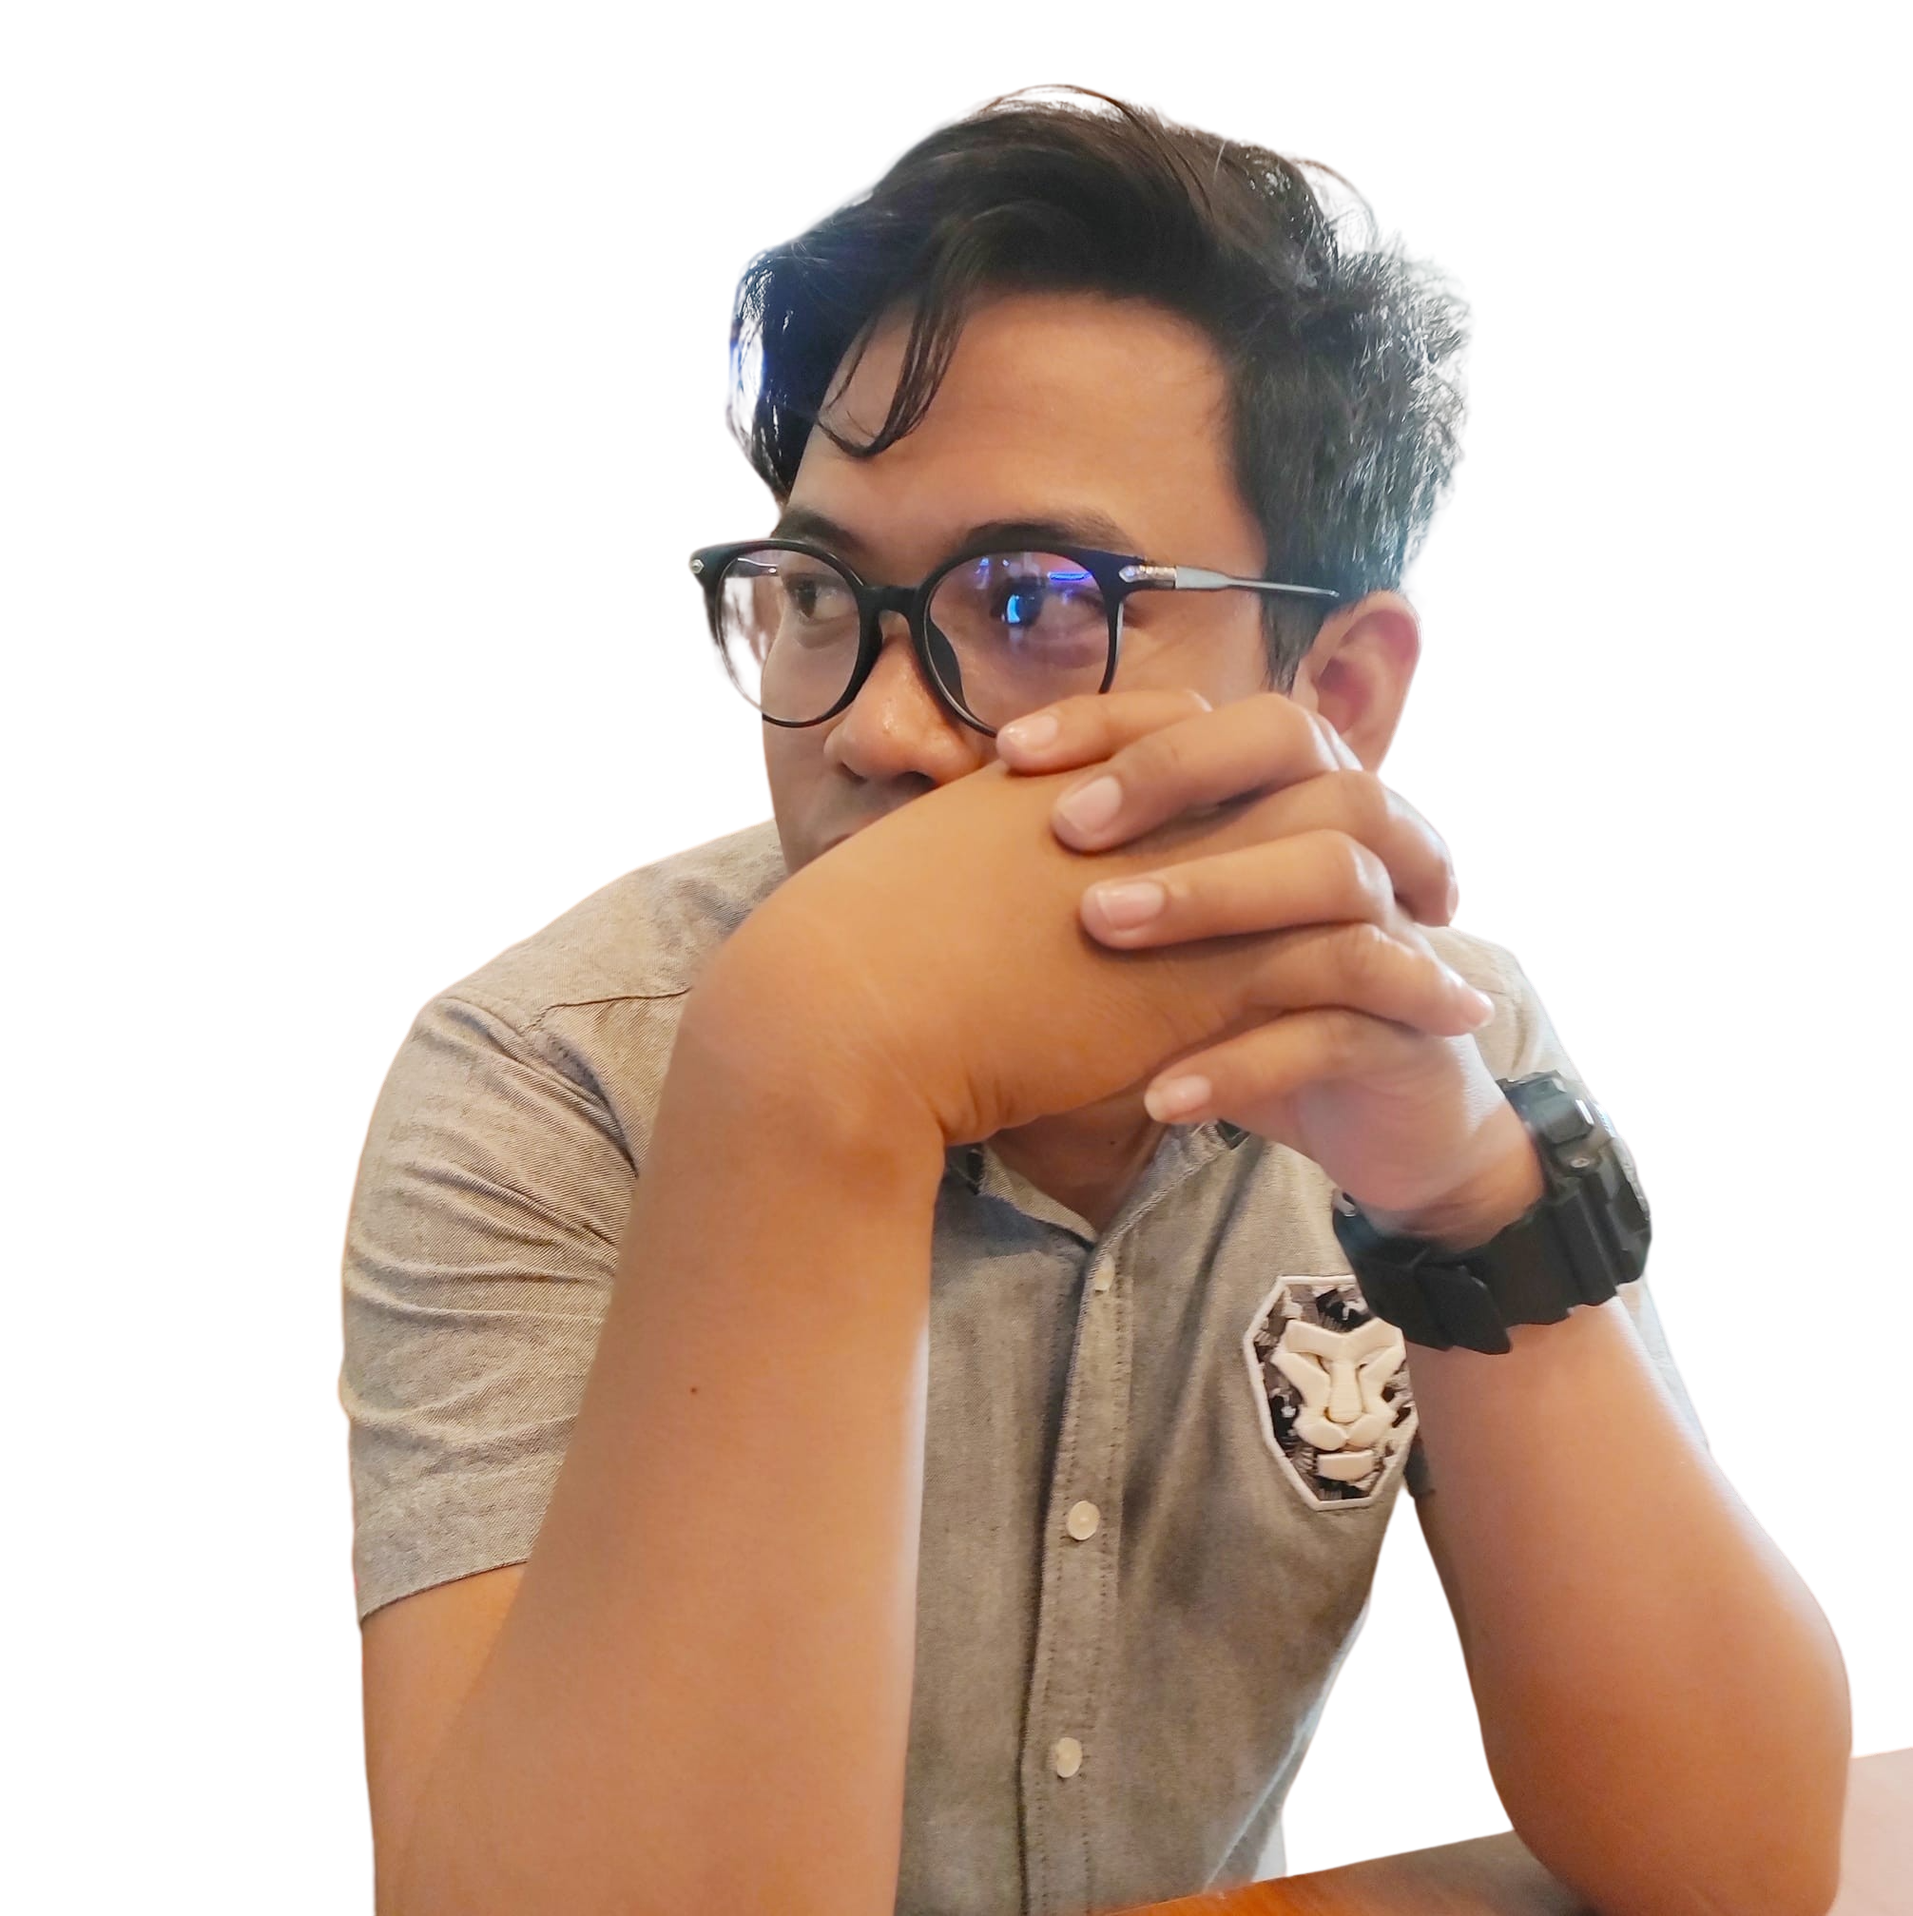
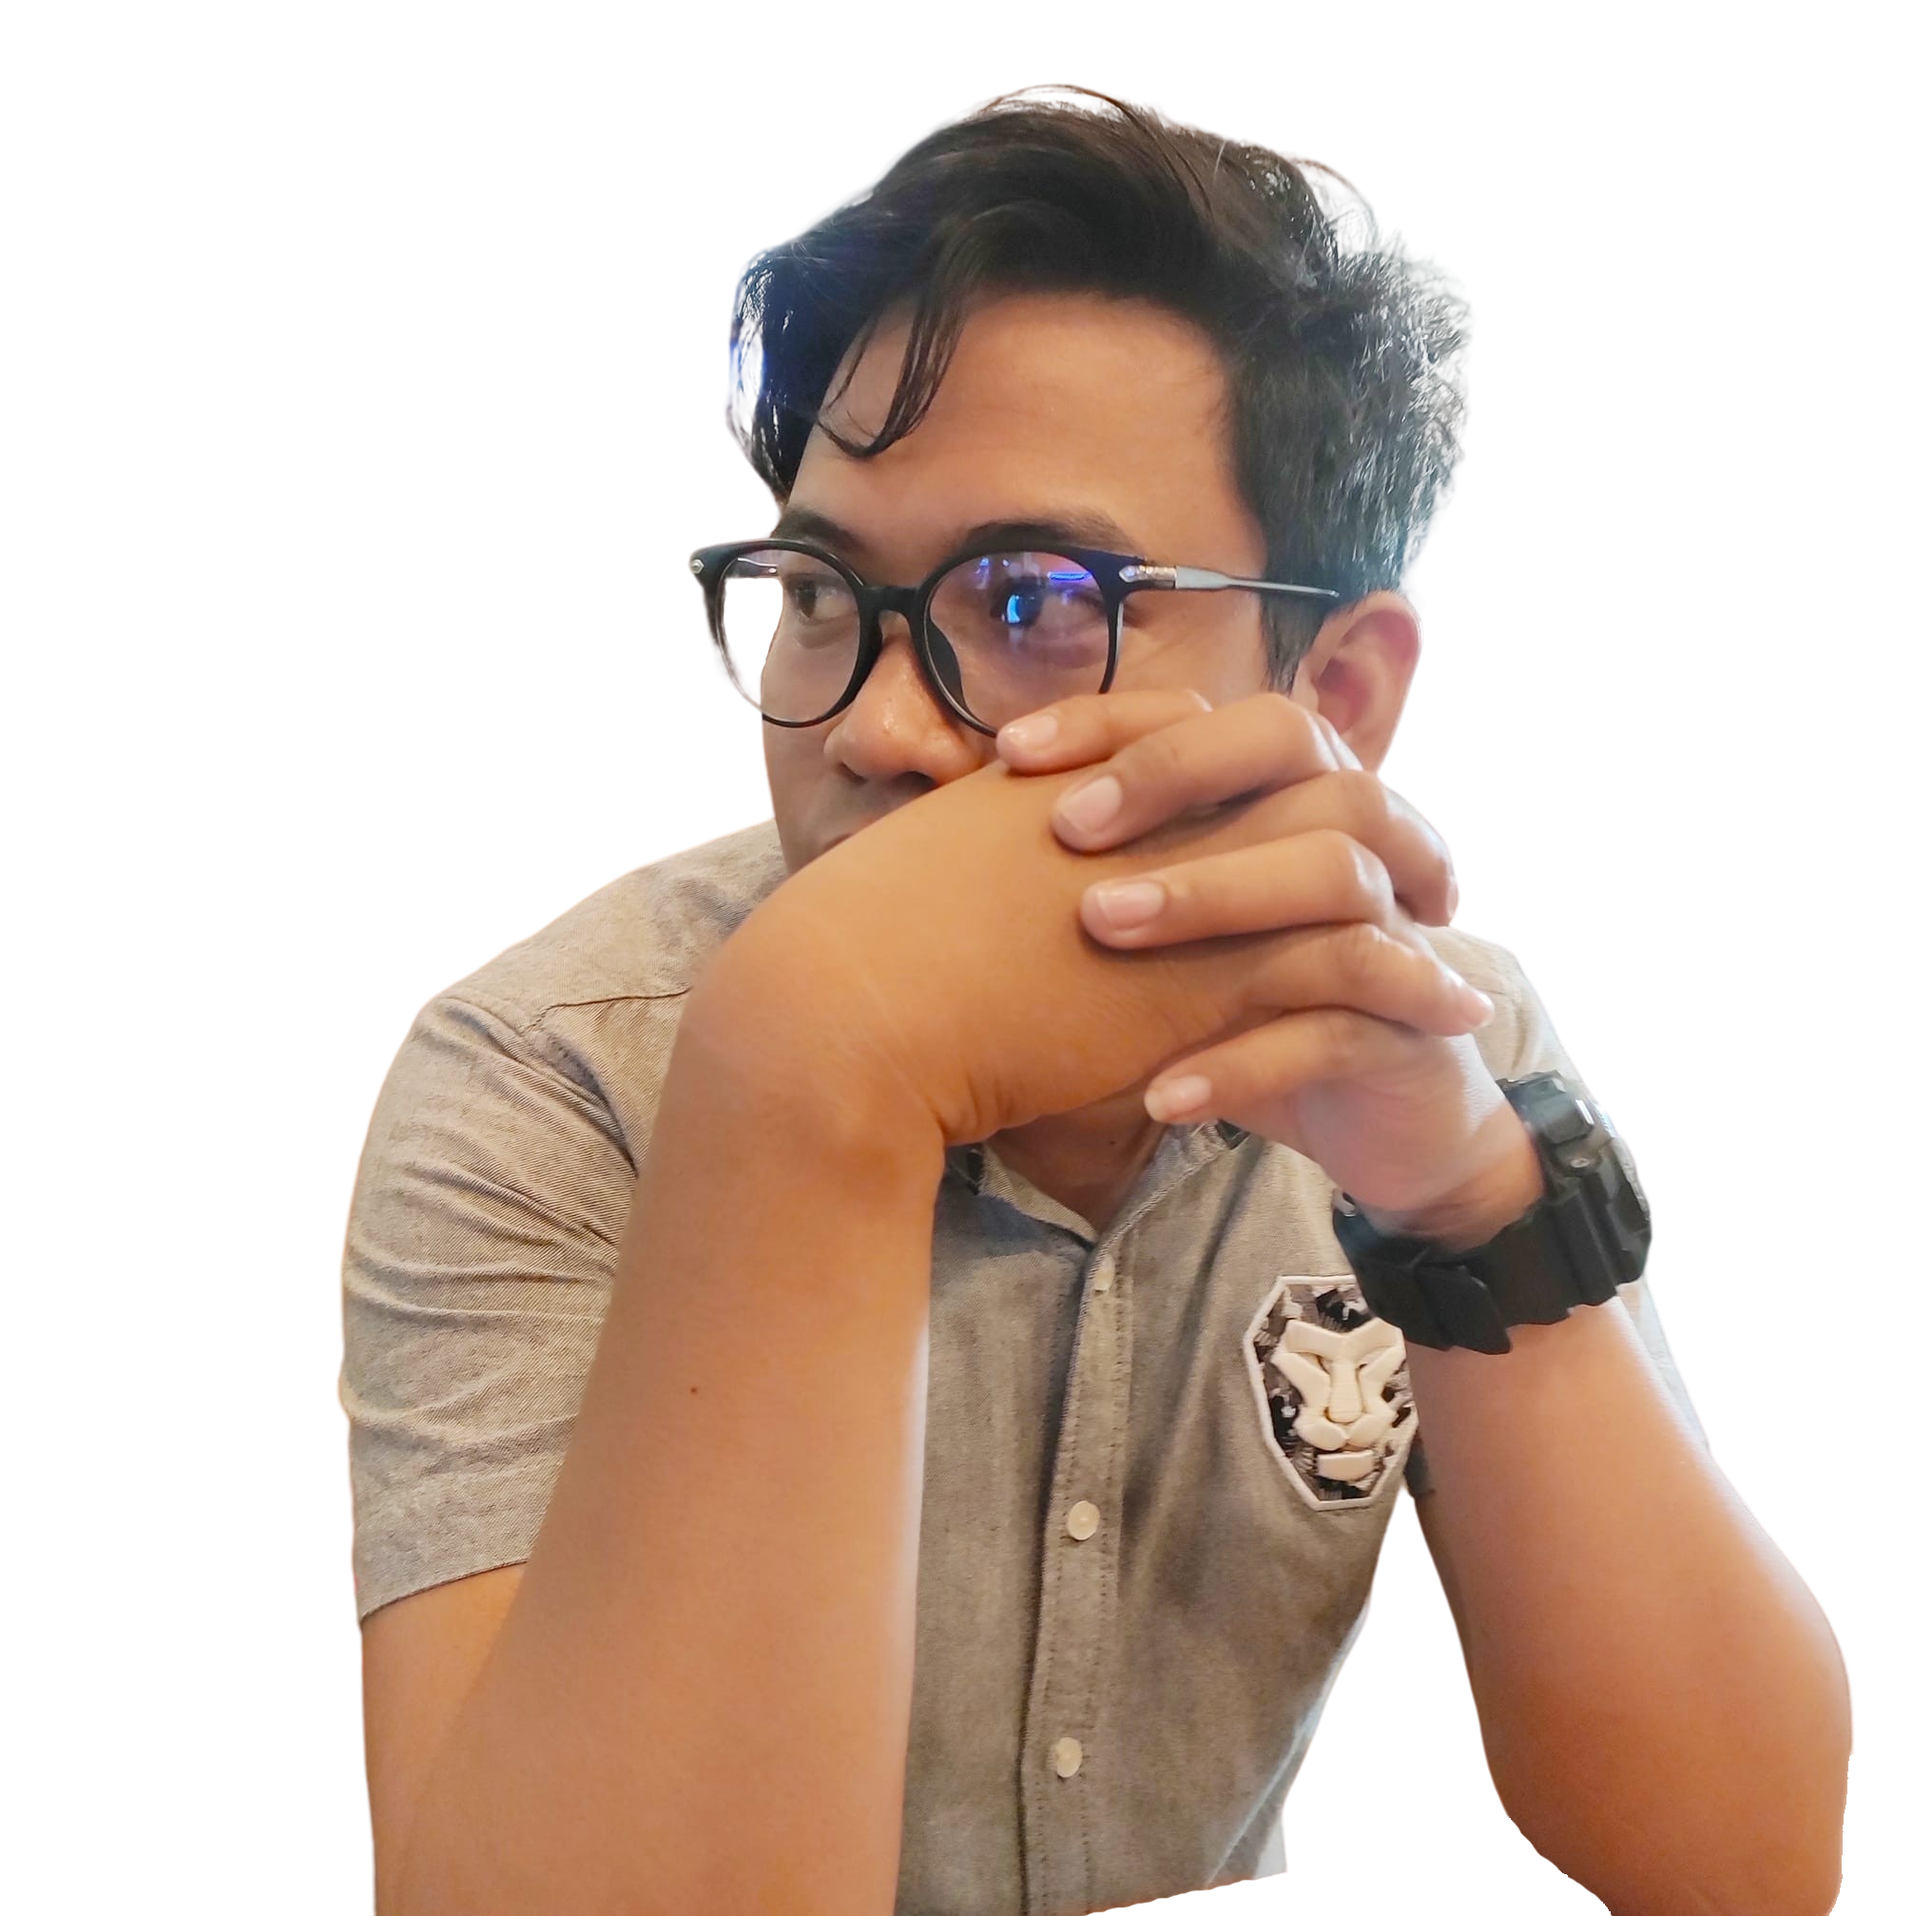
animation added

Changed region(s): [[0.5547, 0.9538, 0.8628, 1.0], [0.9553, 0.8923, 1.0, 1.0], [0.3698, 0.3077, 0.4314, 0.3385]]

diff --git a/script.js b/script.js
@@ -44,20 +44,18 @@ window.onscroll = () => {
     let header = document.querySelector('header')
 
     header.classList.toggle('sticky', window.scrollY > 100); 
+};
 
     // Scroll Reveal
 
     ScrollReveal({
-         reset: true,
+        //  reset: true,
          distance: '80px',
          duration: 2000,
-         delay: 200
-        
-        
-        
-        });
+         delay: 200,
+});
 
-    ScrollReveal().reveal('.tagline', { delay: 500 });
-
-};
-
+ScrollReveal().reveal('.wrapper, .heading', { origin: 'top' });
+ScrollReveal().reveal('.skills-container, .contact', { origin: 'bottom' });
+ScrollReveal().reveal('.wrapper h1, .about-img', { origin: 'left' });
+ScrollReveal().reveal('.wrapper p, .about-me', { origin: 'right' });

diff --git a/index.html b/index.html
@@ -62,7 +62,7 @@
 
 <section class="about" id="about">
     <div class="about-img">
-        <img src="image/about1.png" alt="">
+        <img src="image/about.png" alt="">
     </div>
 
     <div class="about-me">
@@ -131,12 +131,11 @@
 
 </footer>
 
+<!-- ScrollReveal -->  
+<script src="https://unpkg.com/scrollreveal"></script>
 
 <!-- JS -->
     <script src="script.js"></script>
-
-<!-- ScrollReveal -->  
-    <script src="https://unpkg.com/scrollreveal"></script>
 
 </body>
 </html>

diff --git a/Styles.css b/Styles.css
@@ -253,6 +253,22 @@ section {
 
 .about-img img {
     width: 35vw;
+    animation: floatImage 3s ease-in-out infinite;
+}
+
+@keyframes floatImage {
+    0% {
+        transform: translateY(0);
+    }
+
+    50% {
+        transform: translateY(-1.5rem);
+
+    }
+
+    100% {
+        transform: translateY(0);
+    }
 }
 
 .heading {
